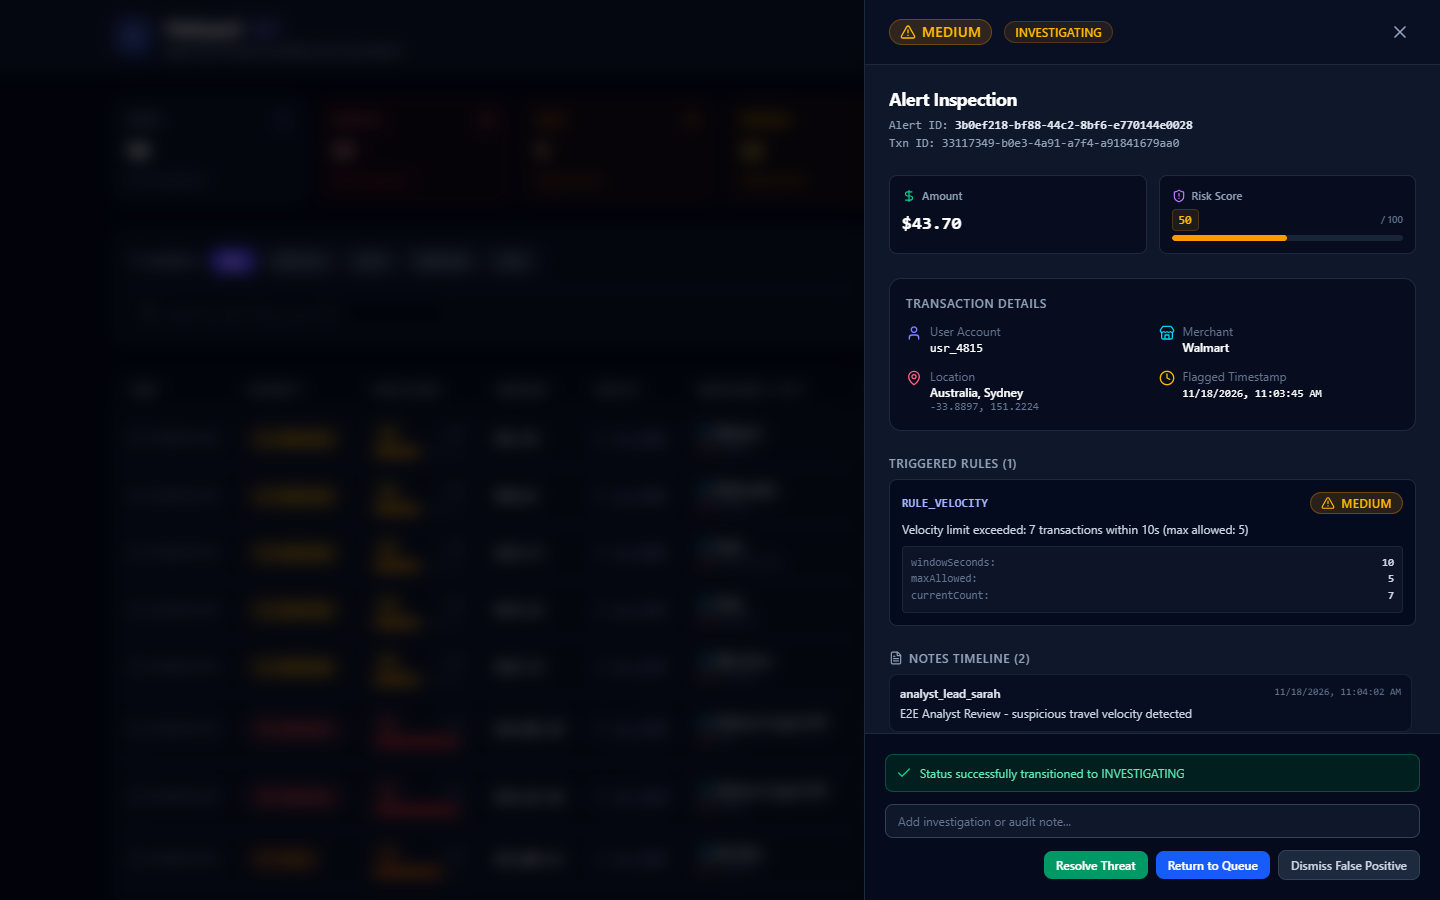
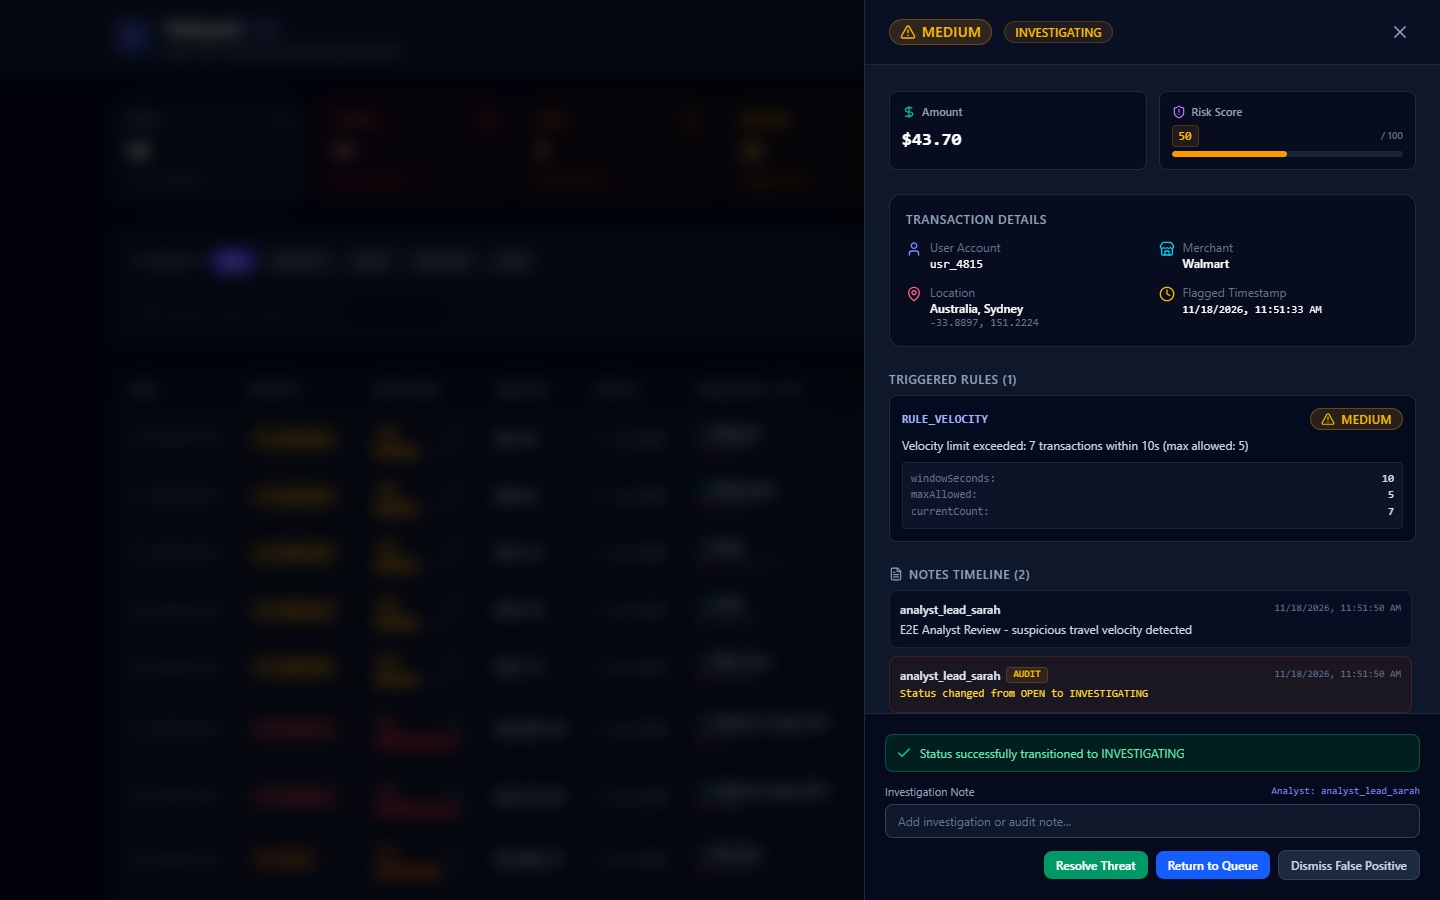
fix(dashboard): resolve avgRisk calculation, drawer timeline visibility, generic 401 badge, and update docs

diff --git a/frontend/src/components/AlertDetailDrawer.jsx b/frontend/src/components/AlertDetailDrawer.jsx
@@ -57,7 +57,7 @@ export default function AlertDetailDrawer({ alert: initialAlert, onClose, onStat
     } catch (err) {
       const msg = err.message || 'Status transition failed';
       if (msg.includes('401') || msg.toLowerCase().includes('unauthorized') || msg.toLowerCase().includes('missing or invalid api key')) {
-        setErrorMsg('401 Unauthorized: Invalid or missing admin API key (check VITE_ADMIN_API_KEY)');
+        setErrorMsg('401 Unauthorized: Invalid or missing API key.');
       } else if (msg.includes('400') || msg.toLowerCase().includes('validation')) {
         setErrorMsg(`400 Bad Request: ${msg}`);
       } else {
@@ -207,23 +207,42 @@ export default function AlertDetailDrawer({ alert: initialAlert, onClose, onStat
           </div>
 
           {/* Audit Notes Timeline */}
-          <div className="space-y-2">
+          <div id="notes-timeline" className="space-y-2">
             <h3 className="text-xs font-semibold uppercase tracking-wider text-slate-400 flex items-center gap-1.5">
               <FileText className="w-3.5 h-3.5 text-slate-400" /> Notes Timeline ({alert.notes?.length || 0})
             </h3>
-            <div className="space-y-2 max-h-48 overflow-y-auto pr-1">
+            <div className="space-y-2 max-h-56 overflow-y-auto pr-1">
               {alert.notes && alert.notes.length > 0 ? (
-                alert.notes.map((note, idx) => (
-                  <div key={idx} className="p-2.5 rounded-lg bg-slate-950/50 border border-slate-800/70 text-xs">
-                    <div className="flex items-center justify-between text-slate-400 mb-1">
-                      <span className="font-semibold text-slate-200">{note.author}</span>
-                      <span className="text-[10px] text-slate-500 font-mono">
-                        {note.createdAt ? new Date(note.createdAt).toLocaleString() : ''}
-                      </span>
+                alert.notes.map((note, idx) => {
+                  const isAudit = note.text?.startsWith('Status changed');
+                  return (
+                    <div
+                      key={idx}
+                      className={`p-2.5 rounded-lg border text-xs ${
+                        isAudit
+                          ? 'bg-amber-950/20 border-amber-900/40 text-amber-200/90'
+                          : 'bg-slate-950/50 border-slate-800/70 text-slate-300'
+                      }`}
+                    >
+                      <div className="flex items-center justify-between text-slate-400 mb-1">
+                        <span className="font-semibold text-slate-200 flex items-center gap-1.5">
+                          {note.author}
+                          {isAudit && (
+                            <span className="text-[10px] px-1.5 py-0.2 rounded bg-amber-500/10 text-amber-400 border border-amber-500/20 font-mono">
+                              AUDIT
+                            </span>
+                          )}
+                        </span>
+                        <span className="text-[10px] text-slate-500 font-mono">
+                          {note.createdAt ? new Date(note.createdAt).toLocaleString() : ''}
+                        </span>
+                      </div>
+                      <p className={isAudit ? 'text-amber-300 font-mono text-[11px]' : 'text-slate-300'}>
+                        {note.text}
+                      </p>
                     </div>
-                    <p className="text-slate-300">{note.text}</p>
-                  </div>
-                ))
+                  );
+                })
               ) : (
                 <p className="text-xs text-slate-500 italic">No analyst notes recorded yet.</p>
               )}
@@ -232,11 +251,21 @@ export default function AlertDetailDrawer({ alert: initialAlert, onClose, onStat
         </div>
 
         {/* Drawer Footer: Actions */}
-        <div className="p-5 border-t border-slate-800 bg-slate-950/80 space-y-3">
+        <div className="p-5 border-t border-slate-800 bg-slate-950/80 space-y-3 shrink-0">
           {errorMsg && (
-            <div className="p-2.5 rounded-lg bg-red-950/60 border border-red-800/80 text-red-300 text-xs flex items-center gap-2">
-              <AlertCircle className="w-4 h-4 shrink-0 text-red-400" />
-              <span>{errorMsg}</span>
+            <div className="p-2.5 rounded-lg bg-red-950/60 border border-red-800/80 text-red-300 text-xs flex items-center justify-between gap-2">
+              <div className="flex items-center gap-2">
+                <AlertCircle className="w-4 h-4 shrink-0 text-red-400" />
+                <span>{errorMsg}</span>
+              </div>
+              <button
+                type="button"
+                onClick={() => setErrorMsg('')}
+                className="text-red-400 hover:text-red-200 p-0.5 rounded"
+                title="Dismiss error"
+              >
+                <X className="w-3.5 h-3.5" />
+              </button>
             </div>
           )}
           {successMsg && (
@@ -246,15 +275,21 @@ export default function AlertDetailDrawer({ alert: initialAlert, onClose, onStat
             </div>
           )}
 
-          {/* Optional Note Input */}
-          <div className="relative">
-            <input
-              type="text"
-              placeholder="Add investigation or audit note..."
-              value={analystNote}
-              onChange={(e) => setAnalystNote(e.target.value)}
-              className="w-full bg-slate-900 border border-slate-700 rounded-lg px-3 py-2 text-xs text-white placeholder-slate-500 focus:outline-none focus:ring-1 focus:ring-indigo-500"
-            />
+          {/* Optional Note Input with Analyst Indicator */}
+          <div className="space-y-1">
+            <div className="flex items-center justify-between text-[11px] text-slate-400">
+              <span>Investigation Note</span>
+              <span className="text-[10px] text-indigo-400 font-mono">Analyst: analyst_lead_sarah</span>
+            </div>
+            <div className="relative">
+              <input
+                type="text"
+                placeholder="Add investigation or audit note..."
+                value={analystNote}
+                onChange={(e) => setAnalystNote(e.target.value)}
+                className="w-full bg-slate-900 border border-slate-700 rounded-lg px-3 py-2 text-xs text-white placeholder-slate-500 focus:outline-none focus:ring-1 focus:ring-indigo-500"
+              />
+            </div>
           </div>
 
           {/* Action Transition Buttons */}

diff --git a/scripts/verify-day8-e2e.js b/scripts/verify-day8-e2e.js
@@ -192,9 +192,31 @@ async function runE2E() {
     const rowCount = await page.locator('tbody tr').count();
     console.log(`      - Live feed displayed row count: ${rowCount}`);
 
-    // Verify stats cards have counts
+    // Verify stats cards have counts and accurate Avg Risk
     const totalStatsText = await page.locator('div:has-text("TOTAL") + div').first().innerText();
     console.log(`      - Total stat card value: ${totalStatsText.trim()}`);
+
+    // Helper functions for stats verification
+    async function getUiAvgRiskScore() {
+      const text = await page.locator('div:has-text("AVG RISK") + div > div').first().innerText();
+      return parseFloat(text.trim());
+    }
+
+    async function getBackendStats() {
+      const res = await fetch(`http://localhost:${ALERT_PORT}/alerts/stats`);
+      return await res.json();
+    }
+
+    const uiAvgRisk = await getUiAvgRiskScore();
+    const backendStats = await getBackendStats();
+    console.log(`      - Avg Risk (UI): ${uiAvgRisk}, (Backend /alerts/stats): ${backendStats.avgRiskScore}`);
+    if (uiAvgRisk <= 0) {
+      throw new Error(`Avg Risk in UI is 0.0 or negative despite ${backendStats.total} detected alerts!`);
+    }
+    if (Math.abs(uiAvgRisk - backendStats.avgRiskScore) > 2.0) {
+      throw new Error(`Avg Risk mismatch: UI has ${uiAvgRisk}, backend has ${backendStats.avgRiskScore}`);
+    }
+    console.log('      >>> [PASSED] all-alerts view: Avg Risk correctly matches backend /alerts/stats!\n');
 
     // Screenshot 1: Live Feed
     const liveFeedScreenshot = path.join(SCREENSHOT_DIR, 'live-feed.png');
@@ -218,14 +240,33 @@ async function runE2E() {
       throw new Error('Non-critical rows displayed while filtered by CRITICAL!');
     }
 
+    // Verify Avg Risk matches backend after room switch
+    const criticalStats = await getBackendStats();
+    const criticalUiAvg = await getUiAvgRiskScore();
+    console.log(`      - CRITICAL Room Avg Risk: UI=${criticalUiAvg}, Backend=${criticalStats.avgRiskScore}`);
+    if (Math.abs(criticalUiAvg - criticalStats.avgRiskScore) > 0.5) {
+      throw new Error(`CRITICAL room Avg Risk mismatch: UI has ${criticalUiAvg}, backend has ${criticalStats.avgRiskScore}`);
+    }
+    console.log('      >>> [PASSED] CRITICAL room: Avg Risk correctly matches backend /alerts/stats!\n');
+
     // Screenshot 2: Filtered Critical
     const filteredScreenshot = path.join(SCREENSHOT_DIR, 'filtered-critical.png');
     await page.screenshot({ path: filteredScreenshot, fullPage: false });
     console.log(`      >>> [SCREENSHOT] Saved: ${filteredScreenshot}\n`);
 
     // Reset filter to ALL
+    console.log('      Switching back to ALL alerts room...');
     await page.locator('button:has-text("ALL")').first().click();
     await sleep(1500);
+
+    // Verify Avg Risk matches backend after returning to ALL room
+    const allStats = await getBackendStats();
+    const allUiAvg = await getUiAvgRiskScore();
+    console.log(`      - Returned to ALL Room Avg Risk: UI=${allUiAvg}, Backend=${allStats.avgRiskScore}`);
+    if (Math.abs(allUiAvg - allStats.avgRiskScore) > 0.5) {
+      throw new Error(`Returned ALL room Avg Risk mismatch: UI has ${allUiAvg}, backend has ${allStats.avgRiskScore}`);
+    }
+    console.log('      >>> [PASSED] Returned to ALL room: Avg Risk correctly matches backend /alerts/stats!\n');
 
     // 6. Pagination Test (Page 2 Historical Mode)
     console.log('[6/7] Testing Pagination & Historical Mode...');
@@ -255,8 +296,9 @@ async function runE2E() {
     console.log('      - Alert Detail Drawer opened successfully');
 
     // Fill analyst note
+    const NOTE_TEXT = 'E2E Analyst Review - suspicious travel velocity detected';
     const noteInput = page.locator('input[placeholder*="investigation"]');
-    await noteInput.fill('E2E Analyst Review - suspicious travel velocity detected');
+    await noteInput.fill(NOTE_TEXT);
 
     // Click "Mark Investigating"
     const investigateBtn = page.locator('button:has-text("Mark Investigating")');
@@ -266,9 +308,17 @@ async function runE2E() {
       console.log('      - Status successfully transitioned to INVESTIGATING');
 
       // Verify Note in timeline
-      await page.waitForSelector('text=E2E Analyst Review - suspicious travel velocity detected', { timeout: 6000 });
-      console.log('      - Analyst note displayed in timeline');
+      await page.waitForSelector(`text=${NOTE_TEXT}`, { timeout: 6000 });
+      console.log(`      - Analyst note "${NOTE_TEXT}" displayed in timeline`);
+
+      // Verify Audit entry in timeline
+      await page.waitForSelector('text=Status changed from OPEN to INVESTIGATING', { timeout: 6000 });
+      console.log('      - Automated audit entry "Status changed from OPEN to INVESTIGATING" displayed in timeline');
     }
+
+    // Scroll drawer so Notes Timeline is prominently visible
+    await page.locator('#notes-timeline').scrollIntoViewIfNeeded();
+    await sleep(500);
 
     // Screenshot 3: Drawer Investigating
     const drawerScreenshot = path.join(SCREENSHOT_DIR, 'drawer-investigating.png');
@@ -292,13 +342,14 @@ async function runE2E() {
     const resolveBtn = page.locator('button:has-text("Resolve Threat")');
     if (await resolveBtn.isVisible()) {
       await resolveBtn.click();
-      await page.waitForSelector('text=401 Unauthorized', { timeout: 6000 });
-      console.log('      >>> [PASSED] UI correctly displays 401 Unauthorized badge on authorization failure!');
+      await page.waitForSelector('text=401 Unauthorized: Invalid or missing API key', { timeout: 6000 });
+      console.log('      >>> [PASSED] UI correctly displays generic 401 Unauthorized badge (no env var exposed)!');
     }
 
     // Screenshot 4: 401 Error Badge
     const errorScreenshot = path.join(SCREENSHOT_DIR, 'error-401.png');
     await page.screenshot({ path: errorScreenshot, fullPage: false });
+    console.log(`      >>> [SCREENSHOT] Saved: ${errorScreenshot}\n`);
     console.log(`      >>> [SCREENSHOT] Saved: ${errorScreenshot}\n`);
 
     await browser.close();

diff --git a/frontend/src/App.jsx b/frontend/src/App.jsx
@@ -121,6 +121,8 @@ export default function App() {
     if (newSev !== 'ALL') {
       setAlerts((prev) => prev.filter((a) => a.severity === newSev));
     }
+    // Immediately resync stats from backend on room switch
+    loadStats();
   };
 
   const handleStatusChange = (newStat) => {
@@ -151,6 +153,7 @@ export default function App() {
     setUserIdFilter('');
     setSortOrder('-createdAt');
     setPage(1);
+    loadStats();
   };
 
   // Reload alerts whenever filters or page changes (with debounced search)
@@ -166,11 +169,11 @@ export default function App() {
     socketManager.subscribeToRoom(severityFilter);
   }, [severityFilter]);
 
-  // Dynamic stats polling: 5s if filtered room, 30s if all-alerts
+  // Dynamic stats polling: 5s if filtered room, 10s if all-alerts
   useEffect(() => {
     loadStats();
     const isAll = severityFilter === 'ALL';
-    const intervalMs = isAll ? 30000 : 5000;
+    const intervalMs = isAll ? 10000 : 5000;
     const statsTimer = setInterval(loadStats, intervalMs);
 
     return () => clearInterval(statsTimer);
@@ -246,11 +249,17 @@ export default function App() {
           currentBySev[sev] = (currentBySev[sev] || 0) + 1;
           currentBySt[st] = (currentBySt[st] || 0) + 1;
 
+          const newTotal = prev.total + 1;
+          const score = typeof incomingAlert.riskScore === 'number' ? incomingAlert.riskScore : 0;
+          const currentSum = (prev.avgRiskScore || 0) * prev.total;
+          const newAvg = (currentSum + score) / newTotal;
+
           return {
             ...prev,
-            total: prev.total + 1,
+            total: newTotal,
             bySeverity: currentBySev,
             byStatus: currentBySt,
+            avgRiskScore: Math.round(newAvg * 10) / 10,
           };
         });
       }

diff --git a/frontend/src/components/StatsCards.jsx b/frontend/src/components/StatsCards.jsx
@@ -5,7 +5,11 @@ export default function StatsCards({ stats = {} }) {
   const total = stats.total || 0;
   const bySeverity = stats.bySeverity || { CRITICAL: 0, HIGH: 0, MEDIUM: 0, LOW: 0 };
   const byStatus = stats.byStatus || { OPEN: 0, INVESTIGATING: 0, RESOLVED: 0, DISMISSED: 0 };
-  const avgRiskScore = typeof stats.avgRiskScore === 'number' ? stats.avgRiskScore.toFixed(1) : '0.0';
+  const avgRiskScore = typeof stats.avgRiskScore === 'number'
+    ? stats.avgRiskScore.toFixed(1)
+    : !isNaN(Number(stats.avgRiskScore))
+    ? Number(stats.avgRiskScore).toFixed(1)
+    : '0.0';
 
   const criticalCount = bySeverity.CRITICAL || 0;
   const highCount = bySeverity.HIGH || 0;

diff --git a/README.md b/README.md
@@ -246,12 +246,19 @@ npm run simulate -- --rate 100 --duration 30 --users 5000
 #### 3. Alert Inspection Drawer & Status Lifecycle Mutation
 ![Alert Inspection Drawer](docs/screenshots/drawer-investigating.png)
 
-#### 4. Privileged RBAC Authorization & 401 Error Handling
+#### 4. API-Key Protected Status Updates & 401 Error Handling
 ![401 Unauthorized Error Handling](docs/screenshots/error-401.png)
 
 > [!WARNING]
 > **Security Notice regarding `VITE_ADMIN_API_KEY`:**
 > Any environment variable prefixed with `VITE_` is baked directly into the client-side JavaScript bundle and is visible to any browser visitor. In this development setup, `VITE_ADMIN_API_KEY` is provided in `.env` for local testing only. In production environments, never expose admin keys in the browser bundle; all privileged status modifications must be routed through an authenticated backend-for-frontend (BFF) session or reverse proxy with user-level RBAC.
+
+### Known Limitations
+
+1. **Client-Side Admin API Key (`VITE_ADMIN_API_KEY`)**: In development, privileged alert status updates use a static API key bundled in the Vite environment. In production, this must be replaced by a secure Backend-For-Frontend (BFF) session or reverse-proxy with user-level JWT authentication and role-based access control (RBAC).
+2. **Hardcoded Analyst Identity**: The analyst identifier (`analyst_lead_sarah`) is currently hardcoded in `AlertDetailDrawer.jsx` as a placeholder pending user authentication (Auth Service) integration in subsequent milestones.
+3. **In-Memory Feed Cap (200 Records)**: To prevent browser DOM bloat and high memory usage, the live feed retains a maximum of 200 alerts in client-side memory. Historical records are preserved in MongoDB and accessible via paginated API queries.
+4. **Single-Node Infrastructure**: Apache Kafka, MongoDB, and Redis run in single-node containers in Docker Compose for development efficiency rather than distributed multi-broker clusters.
 
 ---
 
